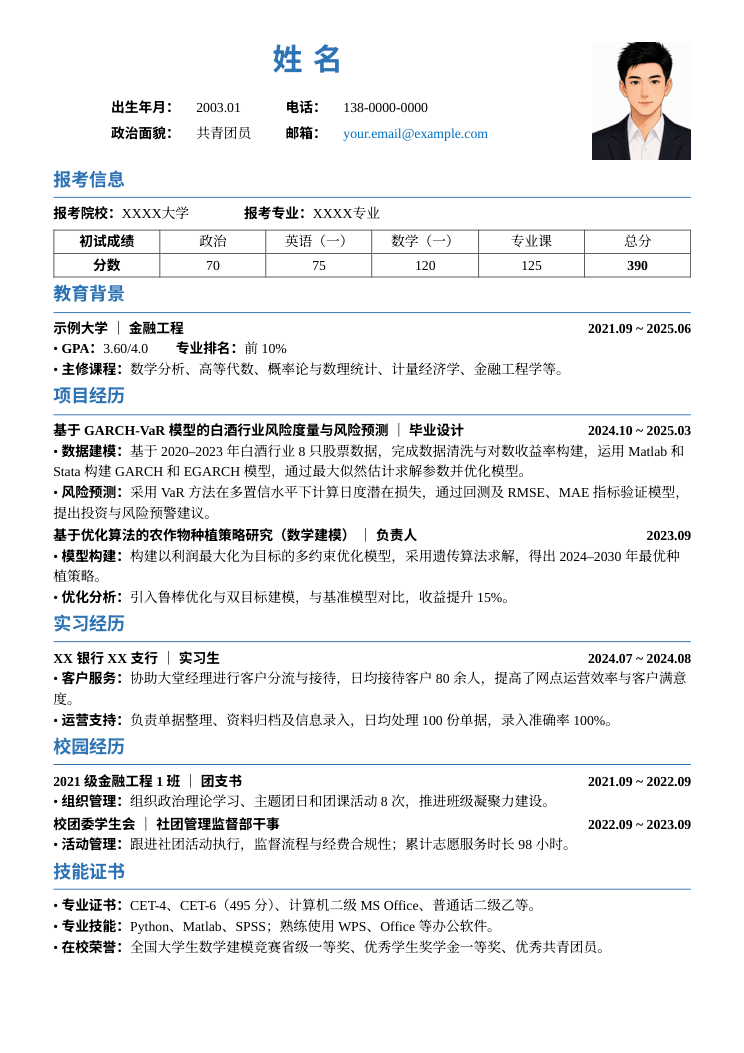
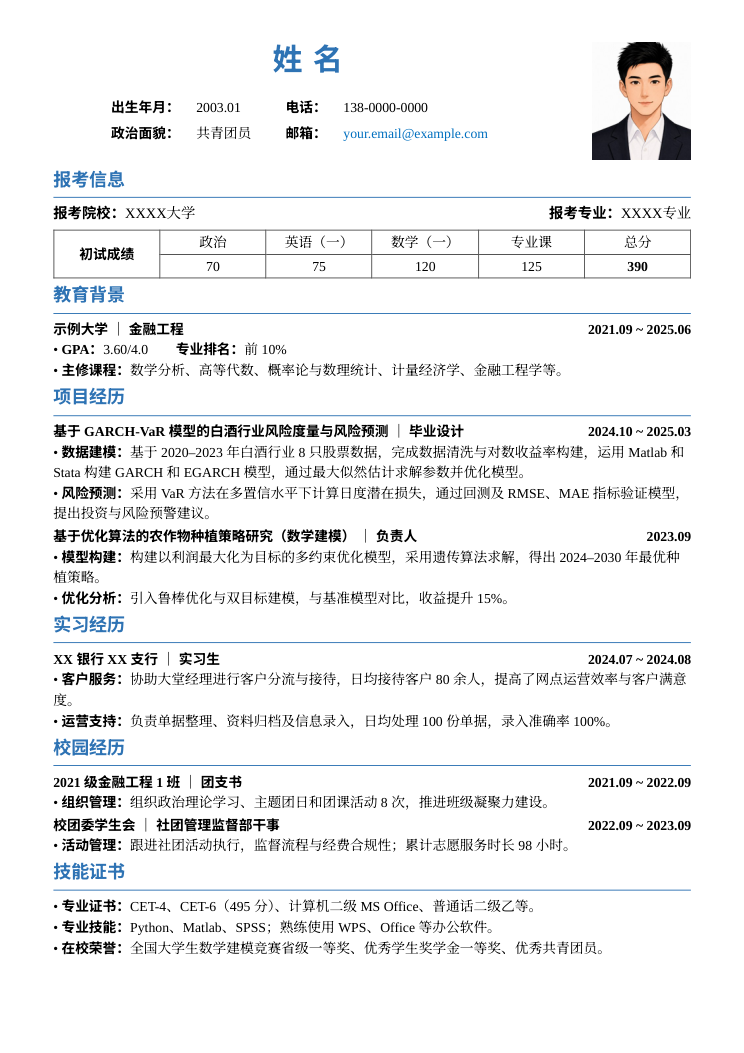
Make 报考信息 a first-class exam section
The 考研复试 template now has a dedicated 报考信息 section with fields for
school, major, research direction and per-subject scores; the total is
computed and the scores render as the original's 初试成绩 table. Switching
to the template adds the section on top when the resume has none.

Claude-Session: https://claude.ai/code/session_019pyehePdEaBsxre47XW6GA

diff --git a/src/i18n.ts b/src/i18n.ts
@@ -15,7 +15,8 @@ const dict = {
     projTitle: '项目名称', projSubtitle: '技术栈',
     bullets: '要点（每行一条，**加粗**，[文字](链接)）',
     skillLabel: '类别', skillValue: '内容', text: '内容（每行一段）', table: '每行一行表格，单元格用 | 分隔，第一行是表头；不含 | 的行显示为普通文字',
-    addSection: '添加模块', kinds: { entries: '经历（教育/工作）', projects: '项目', skills: '技能', text: '文本', table: '表格' },
+    addSection: '添加模块', kinds: { entries: '经历（教育/工作）', projects: '项目', skills: '技能', text: '文本', table: '表格', exam: '报考信息' },
+    examSchool: '报考院校', examMajor: '报考专业', examDirection: '研究方向（可选）', examScores: '初试成绩（总分会自动计算）', examSubject: '科目', examScore: '分数', examAddSubject: '添加科目',
     up: '上移', down: '下移', remove: '删除',
     printTip: '点击“下载 PDF”后，在打印窗口的目标打印机中选择“另存为 PDF”即可（若仍看到页眉页脚，取消勾选“页眉和页脚”）。',
     saved: '已自动保存到本浏览器', source: '开源代码',
@@ -34,7 +35,8 @@ const dict = {
     projTitle: 'Project name', projSubtitle: 'Tech stack',
     bullets: 'Bullets (one per line, **bold**, [text](url))',
     skillLabel: 'Category', skillValue: 'Items', text: 'Text (one paragraph per line)', table: 'One table row per line, cells separated by |, first row is the header; lines without | are plain text',
-    addSection: 'Add section', kinds: { entries: 'Experience / Education', projects: 'Projects', skills: 'Skills', text: 'Text', table: 'Table' },
+    addSection: 'Add section', kinds: { entries: 'Experience / Education', projects: 'Projects', skills: 'Skills', text: 'Text', table: 'Table', exam: 'Exam info (考研)' },
+    examSchool: 'Target school', examMajor: 'Target major', examDirection: 'Research direction (optional)', examScores: 'Preliminary exam scores (total is computed)', examSubject: 'Subject', examScore: 'Score', examAddSubject: 'Add subject',
     up: 'Move up', down: 'Move down', remove: 'Delete',
     printTip: 'After clicking "Download PDF", pick "Save as PDF" as the destination (if you still see a header or footer, untick "Headers and footers").',
     saved: 'Saved in this browser automatically', source: 'Source',

diff --git a/src/editor.ts b/src/editor.ts
@@ -1,10 +1,10 @@
 import type { Dict } from './i18n';
 import type { Resume, Section, SectionKind } from './types';
-import { entry, section } from './samples';
+import { entry, examSection, section } from './samples';
 import { esc } from './util';
 import { templateOf } from './templates';
 
-const KINDS: SectionKind[] = ['entries', 'projects', 'skills', 'text', 'table'];
+const KINDS: SectionKind[] = ['exam', 'entries', 'projects', 'skills', 'text', 'table'];
 
 function field(label: string, path: string, value: string, opts: { area?: boolean; rows?: number; wide?: boolean } = {}): string {
   const control = opts.area
@@ -81,6 +81,24 @@ function renderSection(s: Section, si: number, n: number, d: Dict, collapsed: Se
     </div>`,
         )
         .join('') + `<button type="button" class="btn small ghost" data-action="addEntry" data-args="${si}">+ ${d.addEntry}</button>`;
+  } else if (s.kind === 'exam') {
+    if (!s.entries.length) s.entries.push(entry());
+    const e = s.entries[0];
+    body =
+      `<div class="grid">
+        ${field(d.examSchool, `${p}.entries.0.title`, e.title)}
+        ${field(d.examMajor, `${p}.entries.0.subtitle`, e.subtitle)}
+        ${field(d.examDirection, `${p}.entries.0.location`, e.location, { wide: true })}
+      </div><h4>${d.examScores}</h4>` +
+      s.skills
+        .map(
+          (k, ki) => `<div class="row-fields">
+        ${field(d.examSubject, `${p}.skills.${ki}.label`, k.label)}
+        ${field(d.examScore, `${p}.skills.${ki}.value`, k.value)}
+        <div class="row-actions">${moveBtns('moveSkill', `${si}|${ki}`, ki, s.skills.length, d)}${iconBtn('removeSkill', `${si}|${ki}`, d.remove, '✕', true)}</div>
+      </div>`,
+        )
+        .join('') + `<button type="button" class="btn small ghost" data-action="addSkill" data-args="${si}">+ ${d.examAddSubject}</button>`;
   } else if (s.kind === 'skills') {
     body =
       s.skills
@@ -128,6 +146,7 @@ export function applyAction(r: Resume, action: string, args: string): boolean {
       const s = section(kind, '');
       if (kind === 'entries' || kind === 'projects') s.entries.push(entry());
       if (kind === 'skills') s.skills.push({ label: '', value: '' });
+      if (kind === 'exam') Object.assign(s, examSection());
       r.sections.push(s);
       break;
     }

diff --git a/src/util.ts b/src/util.ts
@@ -77,3 +77,30 @@ export function tableHtml(text: string): string {
   flush();
   return out.join('');
 }
+
+/** Subjects plus a 总分 column, computed when every score is a number and no total was entered. */
+export function examScores(skills: { label: string; value: string }[]): { label: string; value: string; total?: boolean }[] {
+  const rows = skills.filter((k) => k.label.trim() || k.value.trim()).map((k) => ({ ...k, total: /^(总分|合计|total)$/i.test(k.label.trim()) }));
+  if (rows.length && !rows.some((r) => r.total) && rows.every((r) => /^\d+(\.\d+)?$/.test(r.value.trim()))) {
+    const sum = rows.reduce((a, r) => a + Number(r.value), 0);
+    rows.push({ label: '总分', value: String(Math.round(sum * 10) / 10), total: true });
+  }
+  return rows;
+}
+
+/** 报考信息: a 院校 / 专业 / 方向 line and a 初试成绩 table. */
+export function examHtml(s: { entries: { title: string; subtitle: string; location: string }[]; skills: { label: string; value: string }[] }): string {
+  const e = s.entries[0] ?? { title: '', subtitle: '', location: '' };
+  const facts = [['报考院校', e.title], ['报考专业', e.subtitle], ['研究方向', e.location]]
+    .filter(([, v]) => v.trim())
+    .map(([k, v]) => `<span><strong>${k}：</strong>${inline(v)}</span>`)
+    .join('');
+  const rows = examScores(s.skills);
+  const table = rows.length
+    ? `<table class="tbl exam"><tbody>
+  <tr><th rowspan="2" class="exam-label">初试成绩</th>${rows.map((r) => `<td>${inline(r.label)}</td>`).join('')}</tr>
+  <tr>${rows.map((r) => `<td>${r.total ? `<strong>${inline(r.value)}</strong>` : inline(r.value)}</td>`).join('')}</tr>
+</tbody></table>`
+    : '';
+  return `${facts ? `<div class="exam-facts">${facts}</div>` : ''}${table}`;
+}

diff --git a/src/styles/resume.css b/src/styles/resume.css
@@ -148,6 +148,12 @@
 .page table.tbl th:first-child, .page table.tbl td:first-child { font-weight: 700; }
 .page .tbl-note { margin: 2pt 0; }
 
+/* 报考信息 (any template) */
+.page .exam-facts { display: flex; justify-content: space-between; flex-wrap: wrap; gap: 0 2em; margin: 1pt 0 2pt; }
+.page table.tbl.exam td { width: auto; }
+.page table.tbl.exam th.exam-label { font-weight: 700; white-space: nowrap; padding: 2pt 8pt; }
+.page table.tbl.exam td:first-child { font-weight: inherit; }
+
 /* ---------- 考研复试 ---------- */
 .fushi {
   --blue: rgb(46, 116, 181);
@@ -160,7 +166,7 @@
   color: #000;
   padding: 15mm;
 }
-.fushi strong, .fushi h1, .fushi h2, .fushi .k, .fushi th:first-child, .fushi td:first-child { font-family: var(--bold); font-weight: 700; }
+.fushi strong, .fushi h1, .fushi h2, .fushi .k, .fushi th:first-child, .fushi td:first-child, .fushi th.exam-label { font-family: var(--bold); font-weight: 700; }
 .fushi a { color: var(--link); }
 .fushi .heading { display: flex; align-items: flex-start; gap: 8mm; margin: -3mm 0 2mm; }
 .fushi .who { flex: 1; text-align: center; }
@@ -179,3 +185,5 @@
 .fushi table.tbl { margin: 1.5mm 0 1mm; }
 .fushi table.tbl th, .fushi table.tbl td { border-color: #555; }
 .fushi table.tbl { table-layout: fixed; }
+.fushi table.tbl.exam td:first-child { font-family: var(--serif); font-weight: 400; }
+.fushi .exam-facts { font-size: 11.5pt; }

diff --git a/src/samples.ts b/src/samples.ts
@@ -157,6 +157,19 @@ export function sampleZh(): Resume {
   };
 }
 
+/** A filled-in 报考信息 section (院校 / 专业 / 初试成绩). */
+export function examSection(): Pick<Section, 'entries' | 'skills'> {
+  return {
+    entries: [entry({ title: 'XXXX大学', subtitle: 'XXXX专业' })],
+    skills: [
+      { label: '政治', value: '70' },
+      { label: '英语（一）', value: '75' },
+      { label: '数学（一）', value: '120' },
+      { label: '专业课', value: '125' },
+    ],
+  };
+}
+
 /** Content adapted from the sample in Kody's 中文考研复试简历模板 (MIT). */
 export function sampleFushi(): Resume {
   return {
@@ -174,13 +187,7 @@ export function sampleFushi(): Resume {
       { text: '邮箱：your.email@example.com', link: '' },
     ],
     sections: [
-      section('table', '报考信息', {
-        text: [
-          '**报考院校：**XXXX大学　　　　**报考专业：**XXXX专业',
-          '初试成绩 | 政治 | 英语（一） | 数学（一） | 专业课 | 总分',
-          '分数 | 70 | 75 | 120 | 125 | **390**',
-        ].join('\n'),
-      }),
+      section('exam', '报考信息', examSection()),
       section('entries', '教育背景', {
         entries: [
           entry({

diff --git a/src/main.ts b/src/main.ts
@@ -12,6 +12,7 @@ import './styles/resume.css';
 import { applyAction, renderEditor, setPath } from './editor';
 import { t, type UiLang } from './i18n';
 import { load, normalize, sample, save } from './store';
+import { examSection, section } from './samples';
 import { templateOf, templatesFor } from './templates';
 import type { Lang, PageSize, Resume, TemplateId } from './types';
 
@@ -185,7 +186,10 @@ $<HTMLSelectElement>('#page-size').addEventListener('change', (e) => {
 });
 
 $<HTMLSelectElement>('#template').addEventListener('change', (e) => {
-  cur().template = (e.target as HTMLSelectElement).value as TemplateId;
+  const r = cur();
+  r.template = (e.target as HTMLSelectElement).value as TemplateId;
+  // 报考信息 is the heart of the 考研复试 template: add it on top if the resume has none.
+  if (r.template === 'fushi' && !r.sections.some((s) => s.kind === 'exam' || s.title.trim() === '报考信息')) r.sections.unshift(section('exam', '报考信息', examSection()));
   changed(true);
 });
 

diff --git a/tests/util.test.ts b/tests/util.test.ts
@@ -86,3 +86,16 @@ describe('tables and labels', () => {
     for (const t of templatesFor('zh')) expect(t.render(sampleFushi())).toContain('初试成绩');
   });
 });
+
+describe('exam section', () => {
+  it('computes the total and renders school, major and scores', async () => {
+    const { examHtml, examScores } = await import('../src/util');
+    expect(examScores([{ label: '政治', value: '70' }, { label: '英语', value: '75.5' }]).at(-1)).toMatchObject({ label: '总分', value: '145.5' });
+    expect(examScores([{ label: '政治', value: '70' }, { label: '总分', value: '400' }])).toHaveLength(2);
+    const html = examHtml({ entries: [{ title: '北大', subtitle: '计算机', location: '' }], skills: [{ label: '政治', value: '70' }] });
+    expect(html).toContain('报考院校');
+    expect(html).toContain('计算机');
+    expect(html).not.toContain('研究方向');
+    expect(html).toContain('<strong>70</strong>');
+  });
+});

diff --git a/src/templates/jake.ts b/src/templates/jake.ts
@@ -1,5 +1,5 @@
 import type { Entry, Resume, Section } from '../types';
-import { contactHref, esc, inline, lines, tableHtml } from '../util';
+import { contactHref, esc, inline, lines, tableHtml, examHtml } from '../util';
 
 /** HTML port of Jake's Resume (https://github.com/jakegut/resume, MIT). */
 export function renderJake(r: Resume): string {
@@ -31,6 +31,7 @@ function renderSection(s: Section): string {
       .map((k) => `<div><strong>${inline(k.label)}</strong>${k.label.trim() ? ': ' : ''}${inline(k.value)}</div>`)
       .join('')}</li></ul>`;
   else if (s.kind === 'table') body = `<ul class="subheadings skills"><li>${tableHtml(s.text)}</li></ul>`;
+  else if (s.kind === 'exam') body = `<ul class="subheadings skills"><li>${examHtml(s)}</li></ul>`;
   else body = `<ul class="subheadings skills"><li>${lines(s.text).map((l) => `<p>${inline(l)}</p>`).join('')}</li></ul>`;
   return `<section><h2>${esc(s.title)}</h2>${body}</section>`;
 }

diff --git a/src/templates/fushi.ts b/src/templates/fushi.ts
@@ -1,5 +1,5 @@
 import type { Entry, Resume, Section } from '../types';
-import { contactHref, esc, inline, lines, splitLabel, tableHtml } from '../util';
+import { contactHref, esc, inline, lines, splitLabel, tableHtml, examHtml } from '../util';
 
 /** HTML take on Kody's 中文考研复试简历模板 (https://github.com/kody1126/Chinese-resume-template-postgraduate, MIT). */
 export function renderFushi(r: Resume): string {
@@ -40,6 +40,7 @@ function renderSection(s: Section): string {
       .map((k) => `<p class="b">• ${k.label.trim() ? `<strong>${inline(k.label)}：</strong>` : ''}${inline(k.value)}</p>`)
       .join('');
   else if (s.kind === 'table') body = tableHtml(s.text);
+  else if (s.kind === 'exam') body = examHtml(s);
   else body = bullets(s.text);
   return `<section><h2>${esc(s.title)}</h2>${body}</section>`;
 }

diff --git a/src/templates/ng.ts b/src/templates/ng.ts
@@ -1,5 +1,5 @@
 import type { Entry, Resume, Section } from '../types';
-import { contactHref, esc, inline, lines, tableHtml } from '../util';
+import { contactHref, esc, inline, lines, tableHtml, examHtml } from '../util';
 
 /** HTML take on Resume-NG by Feng Kaiyu (https://github.com/fky2015/resume-ng, LPPL 1.3c). */
 export function renderNg(r: Resume): string {
@@ -33,6 +33,7 @@ function renderSection(s: Section): string {
       .map((k) => `<li>${k.label.trim() ? `<strong>${inline(k.label)}</strong>: ` : ''}${inline(k.value)}</li>`)
       .join('')}</ul>`;
   else if (s.kind === 'table') body = tableHtml(s.text);
+  else if (s.kind === 'exam') body = examHtml(s);
   else body = `<ul>${lines(s.text).map((l) => `<li>${inline(l)}</li>`).join('')}</ul>`;
   return `<section><h2>${esc(s.title)}</h2>${body}</section>`;
 }

diff --git a/src/templates/zh.ts b/src/templates/zh.ts
@@ -1,5 +1,5 @@
 import type { Entry, Resume, Section } from '../types';
-import { contactHref, esc, inline, lines, tableHtml } from '../util';
+import { contactHref, esc, inline, lines, tableHtml, examHtml } from '../util';
 
 export function renderZh(r: Resume): string {
   const contacts = r.contacts
@@ -34,6 +34,7 @@ function renderSection(s: Section): string {
       .map((k) => `<li>${k.label.trim() ? `<strong>${inline(k.label)}：</strong>` : ''}${inline(k.value)}</li>`)
       .join('')}</ul>`;
   else if (s.kind === 'table') body = tableHtml(s.text);
+  else if (s.kind === 'exam') body = examHtml(s);
   else body = lines(s.text).map((l) => `<p>${inline(l)}</p>`).join('');
   return `<section><h2><span>${esc(s.title)}</span></h2>${body}</section>`;
 }

diff --git a/src/store.ts b/src/store.ts
@@ -6,7 +6,7 @@ import { uid } from './util';
 const KEY = (lang: Lang) => `resume-en-ch:${lang}`;
 const str = (v: unknown): string => (typeof v === 'string' ? v : v == null ? '' : String(v));
 const arr = (v: unknown): unknown[] => (Array.isArray(v) ? v : []);
-const KINDS: SectionKind[] = ['entries', 'projects', 'skills', 'text', 'table'];
+const KINDS: SectionKind[] = ['entries', 'projects', 'skills', 'text', 'table', 'exam'];
 
 /** Coerces untrusted JSON (import / localStorage) into a well-formed Resume. */
 export function normalize(raw: unknown, fallbackLang: Lang): Resume {
